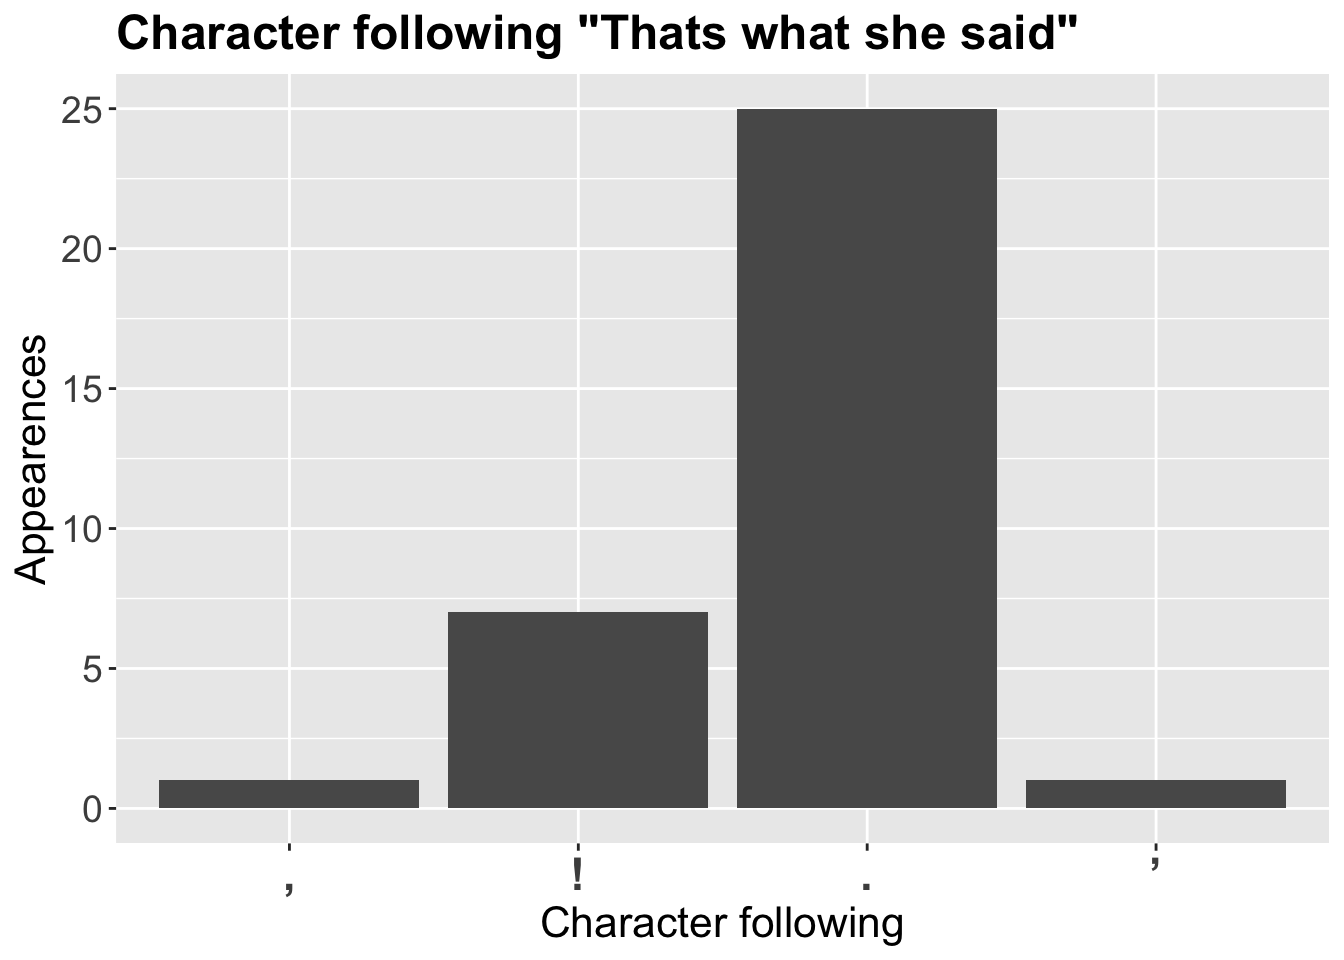
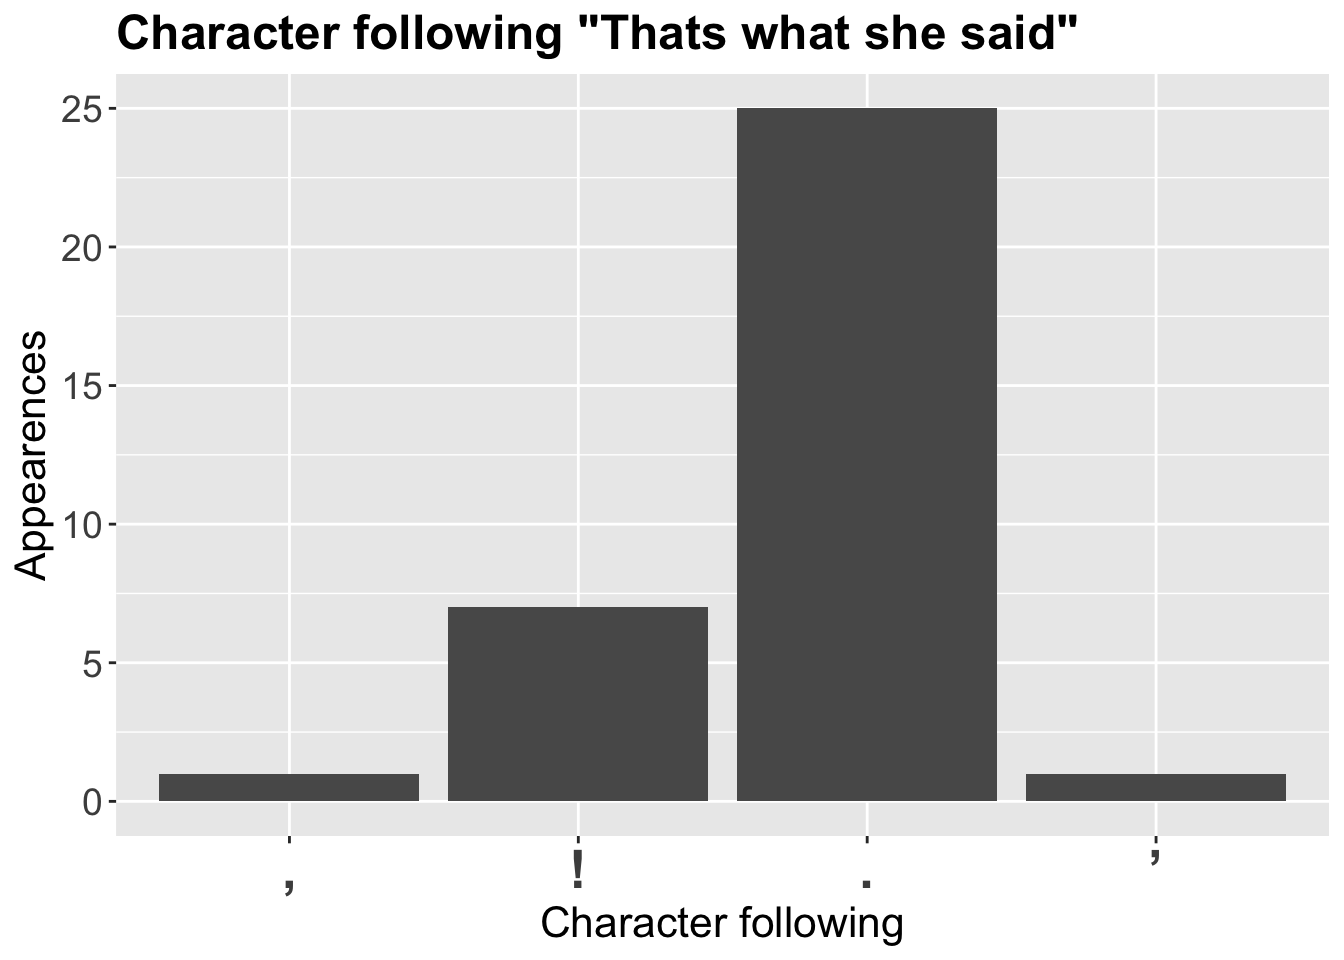
Changed text size of a chart

diff --git a/docs/TheOfficeLineAnalysis.html b/docs/TheOfficeLineAnalysis.html
@@ -286,7 +286,7 @@ pre > code.sourceCode > span > a:first-child::before { text-decoration: underlin
 <span id="cb3-13"><a href="#cb3-13" aria-hidden="true" tabindex="-1"></a>    <span class="at">title =</span> <span class="st">'Character following "Thats what she said"'</span></span>
 <span id="cb3-14"><a href="#cb3-14" aria-hidden="true" tabindex="-1"></a>  ) <span class="sc">+</span></span>
 <span id="cb3-15"><a href="#cb3-15" aria-hidden="true" tabindex="-1"></a>  <span class="fu">theme</span>(</span>
-<span id="cb3-16"><a href="#cb3-16" aria-hidden="true" tabindex="-1"></a>    <span class="at">axis.text.x =</span> <span class="fu">element_text</span>(<span class="at">size =</span> <span class="dv">17</span>, <span class="at">face =</span> <span class="st">"bold"</span>),</span>
+<span id="cb3-16"><a href="#cb3-16" aria-hidden="true" tabindex="-1"></a>    <span class="at">axis.text.x =</span> <span class="fu">element_text</span>(<span class="at">size =</span> <span class="dv">20</span>, <span class="at">face =</span> <span class="st">"bold"</span>),</span>
 <span id="cb3-17"><a href="#cb3-17" aria-hidden="true" tabindex="-1"></a>    <span class="at">axis.text.y =</span> <span class="fu">element_text</span>(<span class="at">size =</span> <span class="dv">14</span>),</span>
 <span id="cb3-18"><a href="#cb3-18" aria-hidden="true" tabindex="-1"></a>    <span class="at">axis.title.x =</span> <span class="fu">element_text</span>(<span class="at">size =</span> <span class="dv">16</span>),</span>
 <span id="cb3-19"><a href="#cb3-19" aria-hidden="true" tabindex="-1"></a>    <span class="at">axis.title.y =</span> <span class="fu">element_text</span>(<span class="at">size =</span> <span class="dv">16</span>),</span>
